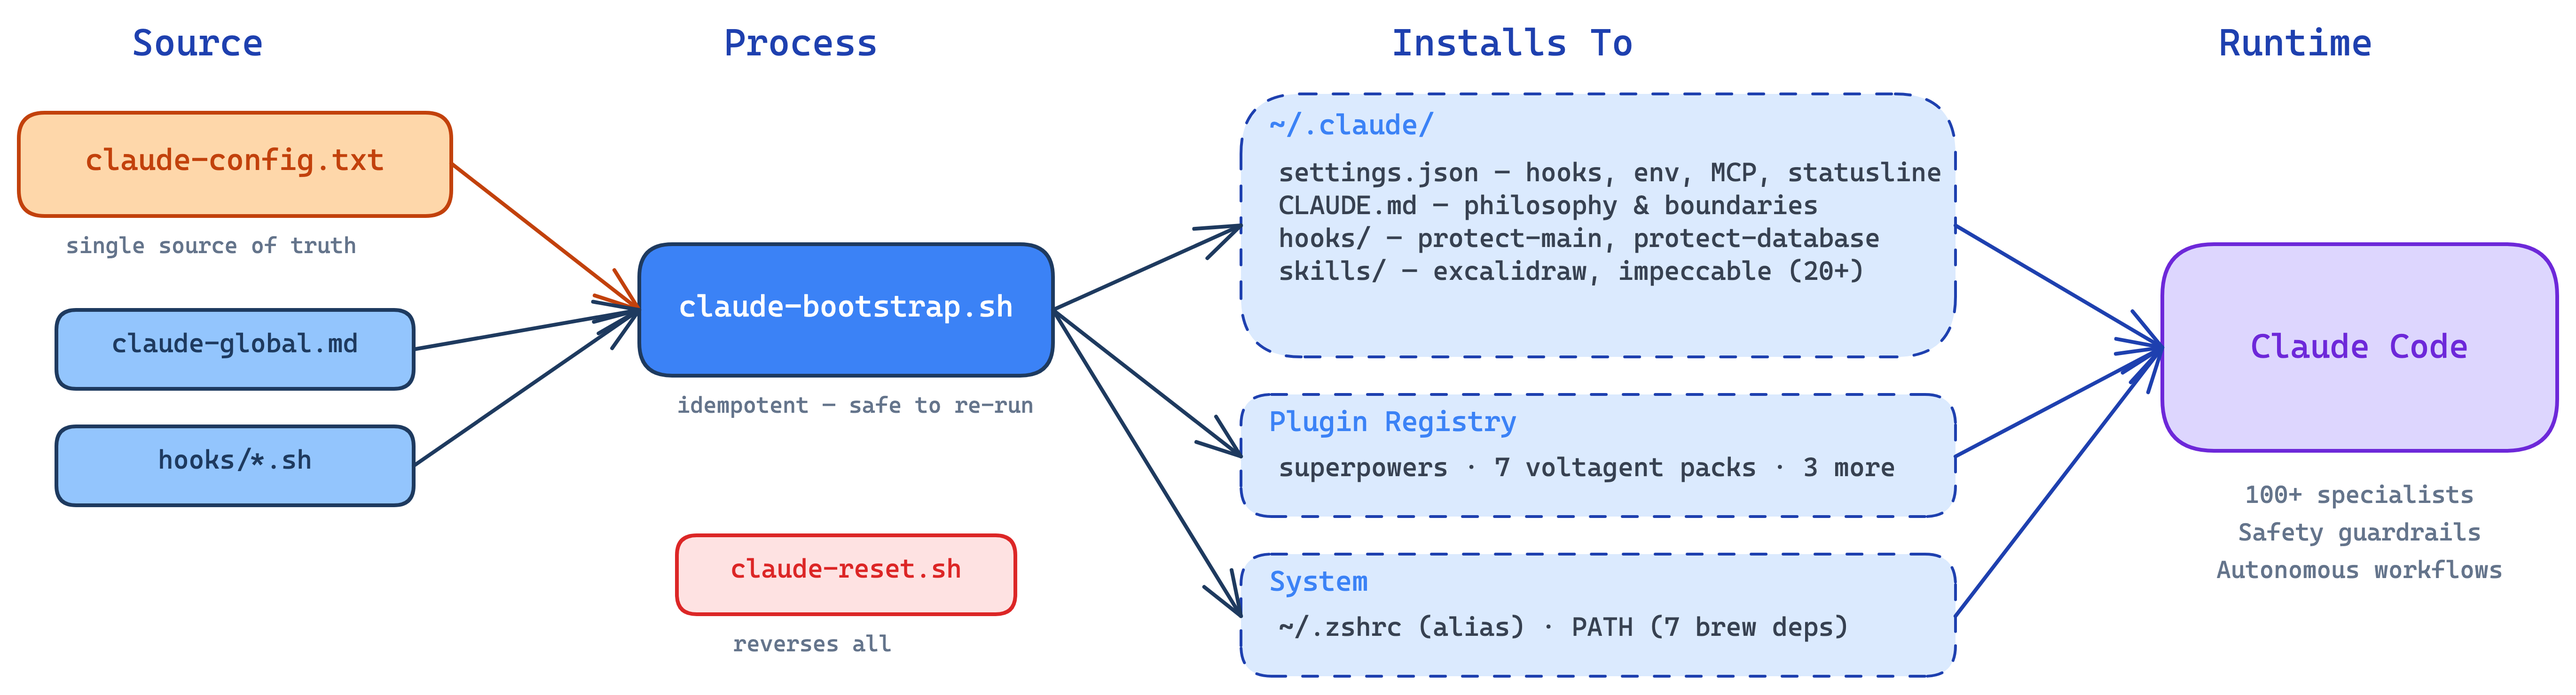
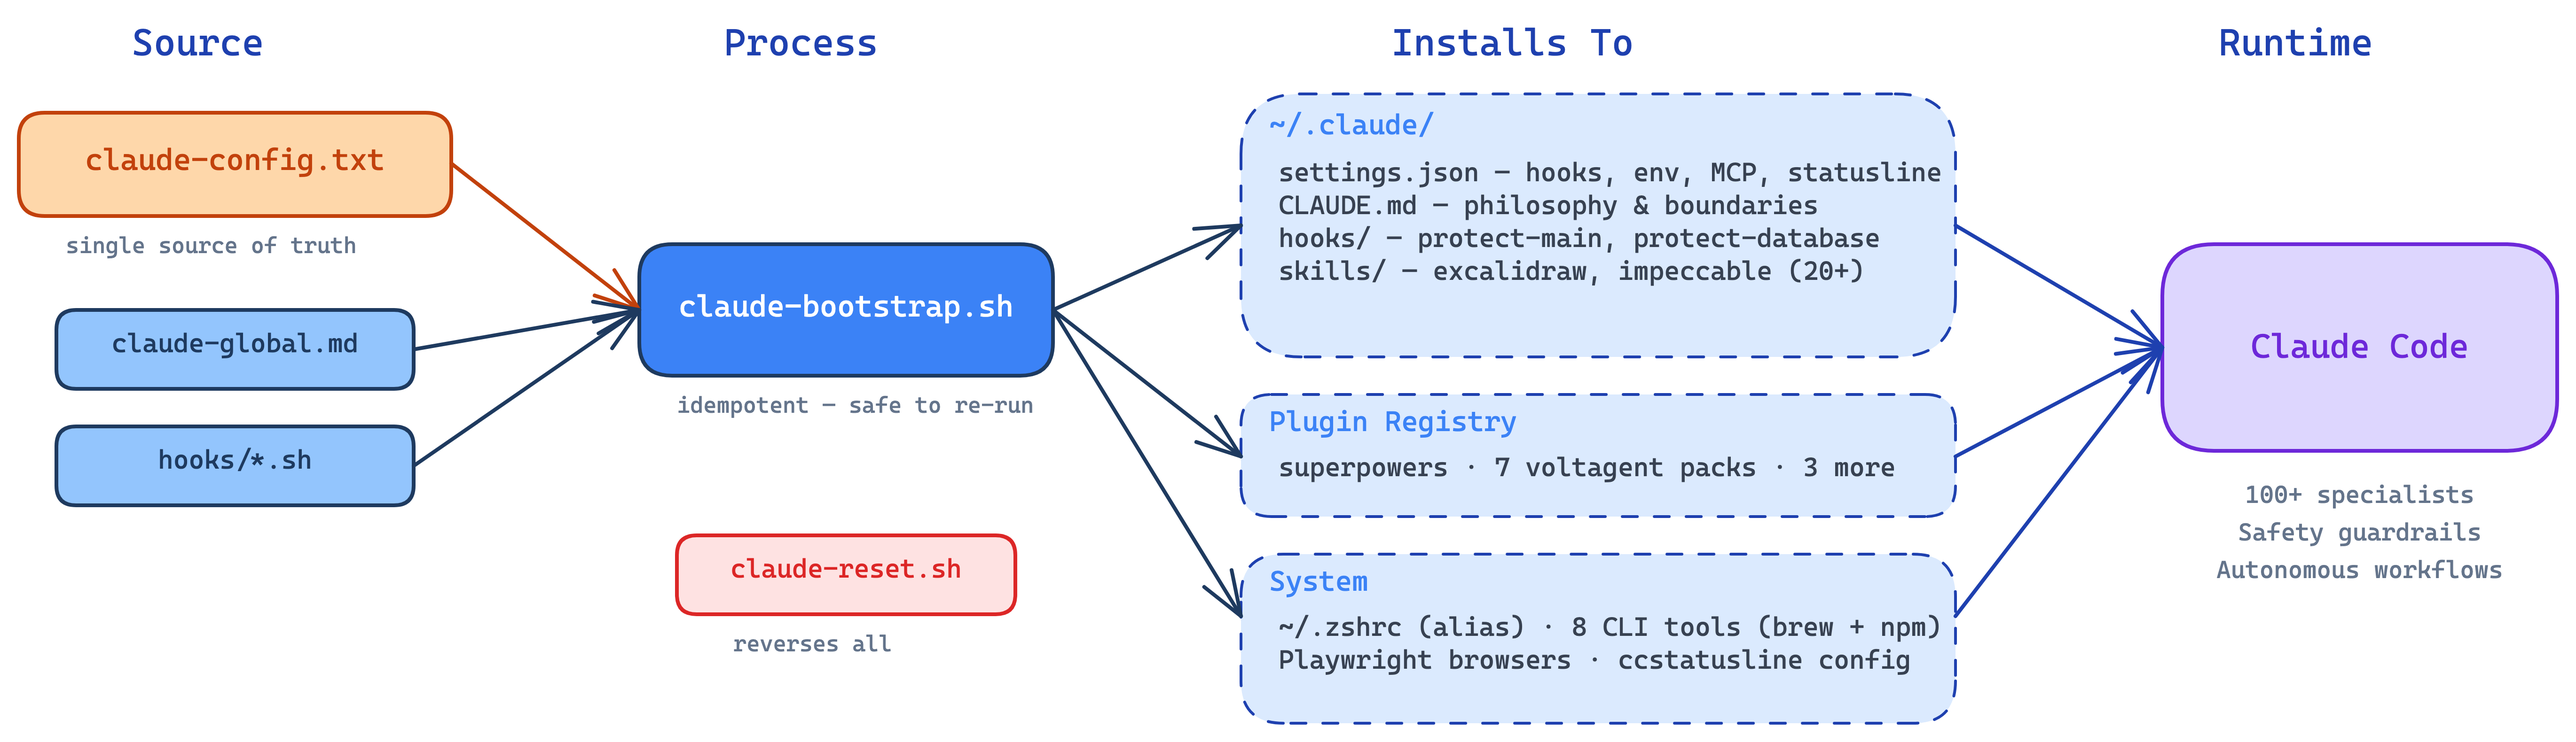
refactor: reclassify Playwright as CLI tool, complete bootstrap/reset symmetry
Playwright CLI was categorized as a separate "npm globals" category despite
being functionally identical to the other CLI tools (git, gh, jq, etc.) that
Claude invokes from the shell. Merged it into the unified "CLI tools" category
across all files — README, config, bootstrap, and reset scripts.

Also closed all known bootstrap/reset asymmetries:
- Playwright browsers: reset now removes via `npx playwright uninstall --all`
  with fallback to cache dir removal; verification in both scripts
- Excalidraw skill setup: documented as handled by transitive removal
  (.venv inside skill dir + browser cache cleanup)
- Local package builds: reset now cleans node_modules/ and dist/ for local
  MCP server packages

Label consistency: "Brew dependencies" → "CLI tools (brew)" and "npm globals"
→ "CLI tools (npm)" in all user-facing output. Architecture diagram updated
to reflect current install targets.

diff --git a/README.md b/README.md
@@ -49,10 +49,10 @@ Everything lives in [`claude-config.txt`](claude-config.txt) — edit it and re-
 
 | Category | What |
 |----------|------|
-| **CLI tools** | git, node, pnpm, gh, jq, ripgrep, uv |
+| **CLI tools** | git, node, pnpm, gh, jq, ripgrep, uv, @playwright/cli |
 | **Plugins** | superpowers, frontend-design, document-skills, example-skills |
 | **Subagents** | voltagent-core-dev, voltagent-lang, voltagent-infra, voltagent-qa-sec, voltagent-data-ai, voltagent-dev-exp, voltagent-meta |
-| **MCP servers** | playwright, context7 |
+| **MCP servers** | context7 |
 | **Skills** | excalidraw-diagram, impeccable (20+ design skills) |
 | **Hooks** | protect-main.sh, protect-database.sh |
 | **Philosophy** | 9 principles for agentic development → [`~/.claude/CLAUDE.md`](claude-global.md) |
@@ -85,29 +85,28 @@ Everything below explains why each tool was chosen over alternatives, where it's
 
 ### CLI Tools
 
-Installed via `brew install`. These are system-level dependencies that Claude Code and the bootstrap itself depend on.
+System-level dependencies that Claude Code and the bootstrap itself depend on. Most install via `brew install`; some install via `npm install -g` when they're Node.js tools — both are CLI tools Claude invokes from the shell.
 
 | Tool | Config | Why this tool |
 |------|--------|---------------|
 | **git** | `brew-dep \| git` | Version control. Required by Claude Code for worktrees, diffs, and branch operations. |
-| **node** | `brew-dep \| node` | JavaScript runtime. Required by npm, MCP servers (`npx`), and Playwright. |
+| **node** | `brew-dep \| node` | JavaScript runtime. Required by npm, MCP servers (`npx`), and Playwright CLI. |
 | **pnpm** | `brew-dep \| pnpm` | Fast, disk-efficient package manager. Preferred over npm/yarn for speed and strict dependency resolution. Not currently used by bootstrap itself, but available for project work. |
 | **gh** | `brew-dep \| gh` | GitHub CLI. Claude uses `gh pr create`, `gh issue`, `gh api` for GitHub operations without needing browser access or tokens in env vars. |
 | **jq** | `brew-dep \| jq` | JSON processor. The bootstrap script uses jq to merge hooks, env vars, and status line config into `~/.claude/settings.json` without clobbering existing settings. Also useful for Claude when parsing API responses. |
 | **ripgrep** | `brew-dep \| rg \| ripgrep` | Claude Code's built-in `Grep` tool is powered by ripgrep (`rg`). Without it, code search falls back to slower alternatives. The binary is `rg` but the Homebrew package name is `ripgrep`, hence the two-field config entry. |
 | **uv** | `brew-dep \| uv` | Python package manager from Astral. Used exclusively for the excalidraw-diagram skill setup (`uv sync`, `uv run`). Chosen over pip/poetry for speed — installs Python dependencies in seconds, not minutes. |
+| **@playwright/cli** | `npm-global \| @playwright/cli` | Token-efficient browser automation. See below. |
+
+**Playwright CLI** — Token-efficient browser automation. Where the Playwright MCP server injects full page snapshots and screenshots into Claude's context window (~114K tokens per task), the CLI keeps browser state on disk and gives Claude compact YAML snapshots and file paths (~27K tokens per task) — roughly a 4x token reduction. Claude runs `playwright-cli snapshot` to get element references, `playwright-cli click` to interact, and `playwright-cli screenshot` to capture images to disk. At no point does the full DOM or image binary enter the context window unless Claude explicitly reads those files.
+
+Why CLI over MCP: The MCP server works well for short, interactive sessions where Claude needs to reason about page state in real time. But for the "Autonomous Debug Cycles" pattern — where Claude iterates through test → fix → validate loops — the CLI's token efficiency means longer sessions before context compression kicks in, and lower cost per cycle. The CLI is best for well-defined browser tasks; MCP is better when the agent needs rich page reasoning for ambiguous situations.
+
+The bootstrap also runs `npx playwright install chromium` to ensure the browser binary is available.
 
 ### MCP Servers
 
 MCP (Model Context Protocol) servers give Claude runtime capabilities beyond its built-in tools. Registered via `claude mcp add -s user` (user-scoped, not project-scoped). Configured in [`claude-config.txt`](claude-config.txt) and registered during bootstrap into `~/.claude/settings.json`.
-
-**Playwright** — `mcp-server | playwright | @playwright/mcp`
-
-Browser automation. Gives Claude tools to navigate pages, click elements, fill forms, take screenshots, and run JavaScript in a real Chromium browser. This is what enables the "Autonomous Debug Cycles" pattern — Claude can start a dev server, navigate to the app, observe the UI, and iterate on fixes against what it actually sees.
-
-Why Playwright over Puppeteer or Cypress: Playwright has first-class MCP support (`@playwright/mcp` is maintained by Microsoft), auto-waits for elements (fewer flaky interactions), and supports Chromium/Firefox/WebKit. Puppeteer is Chrome-only and has no official MCP server. Cypress is a testing framework, not a browser automation tool — different use case.
-
-The bootstrap also installs `@playwright/test` as an npm global and runs `npx playwright install chromium` to ensure the browser binary is available.
 
 **Context7** — `mcp-server | context7 | @upstash/context7-mcp@latest`
 
